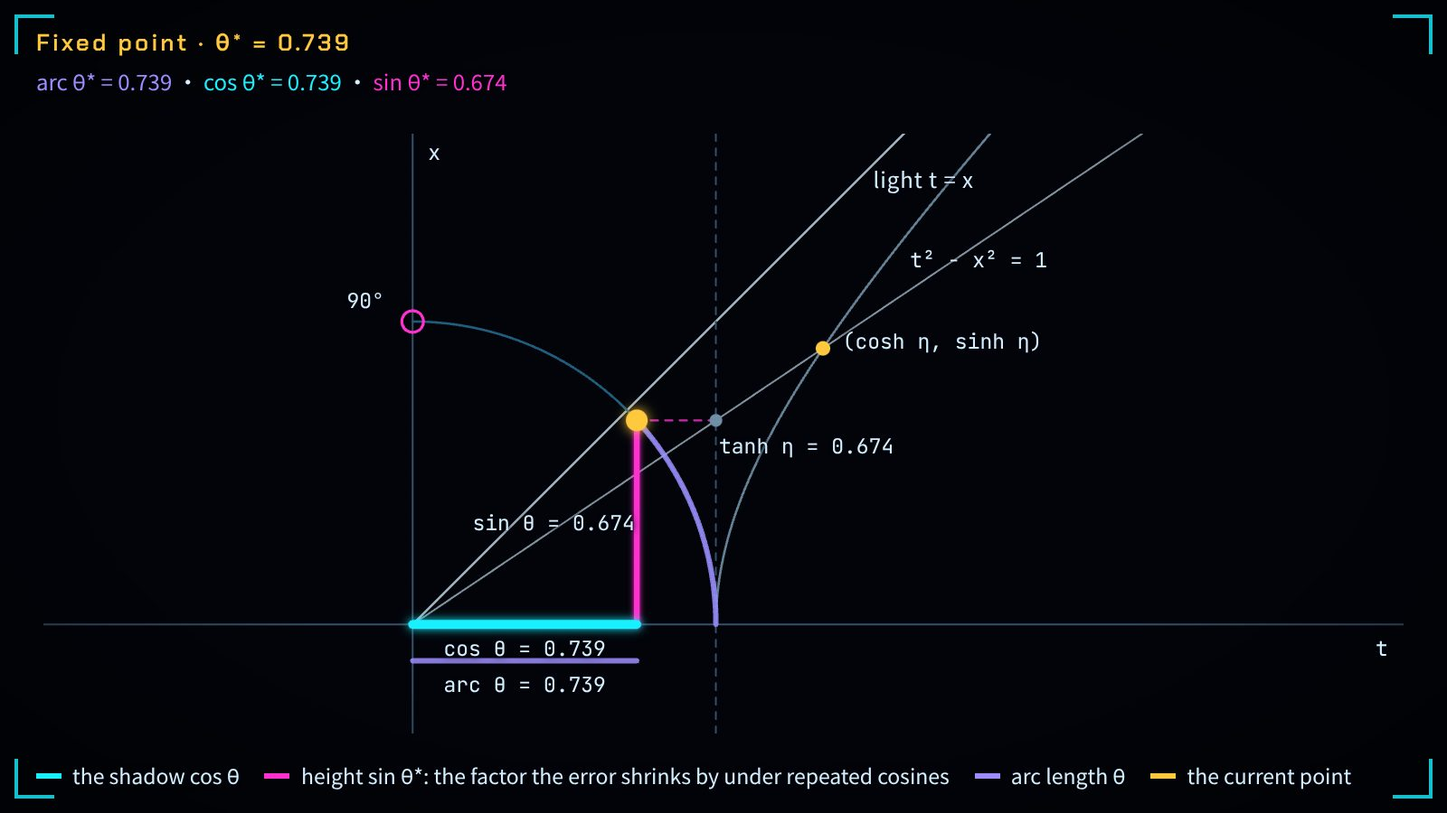
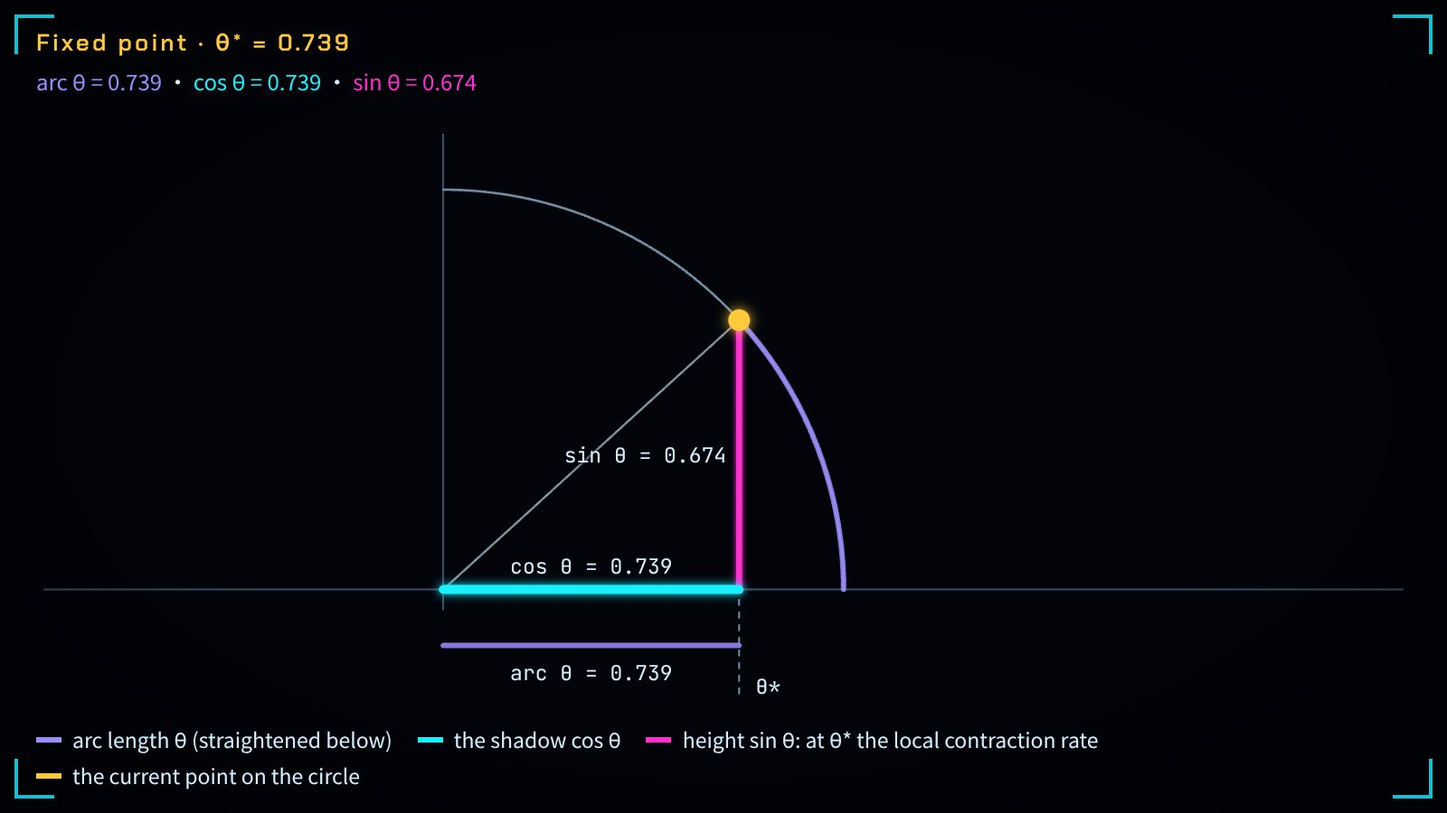
unified-field-slice: the fixed point gets its own stage, the unit circle alone; drop the gudermann card (its reading moves into photon) and the abelian card (one plane stays on the plane chips); checks read without the green mark

diff --git a/books/quantum-geometry/viz/unified-field-slice/main.js b/books/quantum-geometry/viz/unified-field-slice/main.js
@@ -92,17 +92,19 @@
   }
 
   /* ---------- state and scenes ---------- */
-  const S = { scene: 'clock', eta: LN2, tau: 0, lam: 0, eps: 60, plane: 'two', bond: 2 };
+  const S = { scene: 'clock', eta: LN2, theta: 0.3, tau: 0, lam: 0, eps: 60, plane: 'two', bond: 2 };
+  const TH_MAX = 1.5;
   const SCENES = {
     clock: { max: ETA_MAX, rate: 0.7, step: 0.1, get: () => S.eta, set: (v) => { S.eta = v; } },
+    fixed: { max: TH_MAX, rate: 0.3, step: 0.02, get: () => S.theta, set: (v) => { S.theta = v; } },
     loop: { max: 4, rate: 0.8, step: 1, get: () => S.tau, set: (v) => { S.tau = v; } },
     horizon: { max: 180, rate: 40, step: 15, get: () => S.lam, set: (v) => { S.lam = v; } }
   };
   const LEGEND = {
     clock: [['cy', '线 cos θ = 1/γ：固有时率', 'line cos θ = 1/γ: proper-time rate'], ['mg', '面积 sin θ = tanh η：速度 v/c', 'area sin θ = tanh η: speed v/c'], ['vi', '弧长 θ', 'arc length θ'], ['am', '当前的点', 'the current point']],
     loop: [['am', '箭头的尖端', 'tip of the arrow'], ['vi', '转轴', 'axis of a turn'], ['mg', '没合上的缺口', 'the gap left open']],
-    // at the fixed point the same stage is read without relativity: the magenta height is the contraction rate, not a speed
-    fixed: [['cy', '影子 cos θ', 'the shadow cos θ'], ['mg', '高 sin θ*：反复取余弦时误差的缩小倍数', 'height sin θ*: the factor the error shrinks by under repeated cosines'], ['vi', '弧长 θ', 'arc length θ'], ['am', '当前的点', 'the current point']],
+    // the fixed-point scene has only the unit circle: nothing on it is a speed
+    fixed: [['vi', '弧长 θ（下方拉直）', 'arc length θ (straightened below)'], ['cy', '影子 cos θ', 'the shadow cos θ'], ['mg', '高 sin θ：在 θ* 处是局部压缩率', 'height sin θ: at θ* the local contraction rate'], ['am', '圆上当前的点', 'the current point on the circle']],
     // with no horizon pushed in (λ = 0) only the polytope and its angle deficits are on the stage
     polytope: [['mg', '每个顶点的角亏 60°', 'the 60° angle deficit at each vertex'], ['dm', '正二十面体的边', 'edges of the icosahedron']],
     horizon: [['cy', '视界以内的边', 'edges inside the horizon'], ['mg', '割断的边 · 角亏', 'cut edges · angle deficits'], ['am', '视界 λ', 'the horizon λ'], ['dm', '视界以外', 'beyond the horizon']]
@@ -113,14 +115,53 @@
   const stage = kit.stage3($('stage'), {
     canvas: $('cv'), radius: TRV.thumbMode ? 0.42 : 0.36, cy: TRV.figure ? 0.53 : 0.55,
     onChange: () => paint(),
-    onPick: (ev) => { if (S.scene !== 'clock') return false; dragClock(ev); return true; },
-    onDrag: (ev) => dragClock(ev)
+    onPick: (ev) => { if (S.scene === 'clock') dragClock(ev); else if (S.scene === 'fixed') dragFixed(ev); else return false; return true; },
+    onDrag: (ev) => (S.scene === 'fixed' ? dragFixed(ev) : dragClock(ev))
   });
   function dragClock(ev) {
     if (!G) return;
     const b = $('cv').getBoundingClientRect(), x = G.invX(ev.clientX - b.left), y = G.invY(ev.clientY - b.top);
     const th = kit.clamp(Math.atan2(y, x), 0, gd(ETA_MAX));
     clock.pause(); cards.mark(null); clock.set(kit.clamp(gdInv(th), 0, ETA_MAX));
+  }
+
+  function dragFixed(ev) {
+    if (!G) return;
+    const b = $('cv').getBoundingClientRect(), x = G.invX(ev.clientX - b.left), y = G.invY(ev.clientY - b.top);
+    clock.pause(); cards.mark(null); clock.set(kit.clamp(Math.atan2(y, x), 0, TH_MAX));
+  }
+
+  /** The fixed point on its own: the unit circle, the arc θ, the shadow cos θ and the height sin θ. */
+  function drawFixed() {
+    const st = stage, cv = $('cv');
+    st.begin();
+    const w = cv.clientWidth, h = cv.clientHeight, thumb = TRV.thumbMode, lw = thumb ? 1.8 : 1;
+    const g = G = kit.plot(cv, { x: [-0.22, 1.62], y: [-0.36, 1.14], equal: true, pad: [24, 24, h < 420 ? 62 : 74, 44] });
+    const c = g.ctx, X = g.X, Y = g.Y, th = S.theta, co = Math.cos(th), si = Math.sin(th);
+    c.save(); c.beginPath(); c.rect(g.pl, g.pt, g.iw, g.ih); c.clip();
+    const seg = (a, b, color, s) => g.line([a, b], color, Object.assign({ width: 1.6 * lw }, s));
+    seg([g.x0, 0], [g.x1, 0], P.faint, { width: 1 }); seg([0, -0.05], [0, g.y1], P.faint, { width: 1 });
+    const circ = []; for (let i = 0; i <= 90; i++) { const a = Math.PI / 2 * i / 90; circ.push([Math.cos(a), Math.sin(a)]); }
+    g.line(circ, P.dim, { width: 1.3 * lw });
+    seg([0, 0], [co, si], P.ink, { width: 1.2 * lw, alpha: 0.6 });
+    // where the arc and the shadow agree
+    seg([THETA_STAR, -0.26], [THETA_STAR, 0.02], P.dim, { width: 1, dash: [3, 4] });
+    const arc = []; for (let i = 0; i <= 60; i++) { const a = th * i / 60; arc.push([Math.cos(a), Math.sin(a)]); }
+    g.line(arc, P.violet, { width: 3 * lw, alpha: 0.85 });
+    seg([0, -0.14], [th, -0.14], P.violet, { width: 3 * lw, alpha: 0.85 });
+    seg([co, 0], [co, si], P.magenta, { width: 3.2 * lw, glow: 6 });
+    seg([0, 0], [co, 0], P.cyan, { width: 5 * lw, glow: 10 });
+    g.dot(co, si, P.amber, 6 * lw, { glow: 14 });
+    c.restore();
+    if (!thumb) {
+      const at = (x, y, dx, dy) => [X(x) + (dx || 0), Y(y) + (dy || 0)];
+      const tag = (key, p, html, cls) => st.tag(key, p, html, cls, { screen: true });
+      tag('fcos', at(co / 2, 0, 0, -13), `cos θ = ${fix(co, 3)}`, 'num c-cy');
+      tag('farc', at(th / 2, -0.14, 0, 15), `${L('弧长', 'arc')} θ = ${fix(th, 3)}`, 'num c-vi');
+      tag('fsin', at(co, si / 2, -52, 0), `sin θ = ${fix(si, 3)}`, 'num c-mg');
+      tag('fstar', at(THETA_STAR, -0.24, 16, 0), 'θ*', 'num');
+    }
+    st.end();
   }
 
   function drawClock() {
@@ -253,6 +294,16 @@
       g.legend([[P.cyan, 'cos θ = sech η'], [P.magenta, 'sin θ = tanh η'], [P.violet, L('θ / 90°', 'θ / 90°'), 'dash']], { bottom: true, dy: -10 });
       $('plotTitle').innerHTML = L('<span>推得越快：时钟越慢，速度越贴近光</span>', '<span>The harder the push, the slower the clock and the closer to light</span>');
       $('plotMeta').textContent = `η = ${fix(S.eta, 3)} · θ = ${fix(k.theta / DEG, 2)}°`;
+    } else if (S.scene === 'fixed') {
+      const g = kit.plot(cv, { x: [0, TH_MAX], y: [0, 1.5], pad: [30, 10, 8, 22] });
+      g.axes({ yTicks: [0, 0.5, 1, 1.5], xTicks: [0, 0.5, 1, 1.5], xGrid: true });
+      const a = [], b = [];
+      for (let i = 0; i <= 150; i++) { const x = TH_MAX * i / 150; a.push([x, x]); b.push([x, Math.cos(x)]); }
+      g.line(a, P.violet, { width: 1.8 }); g.line(b, P.cyan, { width: 1.8 });
+      g.vline(S.theta, P.amber); g.dot(THETA_STAR, THETA_STAR, P.ink, 4);
+      g.legend([[P.violet, L('弧长 θ', 'arc θ')], [P.cyan, L('影子 cos θ', 'shadow cos θ')]], { right: true, bottom: true });
+      $('plotTitle').innerHTML = L('<span>弧长与影子只相交一次</span>', '<span>The arc and the shadow cross only once</span>');
+      $('plotMeta').textContent = `θ = ${fix(S.theta, 3)} · θ* = ${fix(THETA_STAR, 4)}`;
     } else if (S.scene === 'loop') {
       const g = kit.plot(cv, { x: [0, 90], y: [0, 130], pad: [34, 10, 8, 22] });
       g.axes({ yTicks: [0, 60, 120], xTicks: [0, 30, 60, 90], xGrid: true, yFmt: (v) => `${v}°`, xFmt: (v) => `${v}°` });
@@ -291,7 +342,7 @@
         : `θ = gd(η) = ${fix(k.theta / DEG, 2)}° · <span class="c-cy">cos θ = ${fix(k.cos, 3)}</span> · <span class="c-mg">sin θ = ${fix(k.sin, 3)}</span>`;
       if (fp) leg = 'fixed';
       keyName = L('线² + 面积²', 'line² + area²');
-      key = `<span class="c-cy">${fix(c2, 3)}</span> + <span class="c-mg">${fix(s2, 3)}</span> = ${fix(c2 + s2, 3)} <span class="okmark">✓</span>`;
+      key = `<span class="c-cy">${fix(c2, 3)}</span> + <span class="c-mg">${fix(s2, 3)}</span> = ${fix(c2 + s2, 3)} ✓`;
       rows = row('', '快度 η · 角 θ = gd(η)', 'rapidity η · angle θ = gd(η)', `${fix(S.eta, 4)} · ${fix(k.theta / DEG, 2)}°`)
         + row('c', '固有时率 dτ/dt = cos θ = sech η', 'proper-time rate dτ/dt = cos θ = sech η', `${fix(k.cos, 4)} = ${fix(k.sech, 4)}`)
         + row('m', '速度 v/c = sin θ = tanh η', 'speed v/c = sin θ = tanh η', `${fix(k.sin, 4)} = ${fix(k.tanh, 4)}`)
@@ -302,6 +353,21 @@
           : L(`同一个角 θ：青色的线是时钟走得多快，品红的高是跑得多快，两者的平方加起来总是 1。`, 'One angle θ: the cyan line is how fast the clock runs, the magenta height how fast the body moves, and their squares always add up to 1.');
       aside = 'sin θ = tanh η';
       pill = fp ? ['sin θ*', fix(k.sin, 3)] : ['v/c', fix(k.sin, 3)];
+    } else if (sc === 'fixed') {
+      const th = S.theta, co = Math.cos(th), si = Math.sin(th), at = Math.abs(th - THETA_STAR) < 5e-4;
+      big = at ? L(`不动点 · θ* = ${fix(th, 3)}`, `Fixed point · θ* = ${fix(th, 3)}`) : L(`不动点 · θ = ${fix(th, 3)}`, `Fixed point · θ = ${fix(th, 3)}`);
+      sub = `<span class="c-vi">${L('弧长', 'arc')} θ = ${fix(th, 3)}</span> · <span class="c-cy">cos θ = ${fix(co, 3)}</span> · <span class="c-mg">sin θ = ${fix(si, 3)}</span>`;
+      keyName = L('影子 − 弧长 cos θ − θ', 'shadow − arc cos θ − θ');
+      key = sgn(co - th, 4);
+      rows = row('', '角 θ（弧度 · 度）', 'angle θ (radians · degrees)', `${fix(th, 4)} · ${fix(th / DEG, 2)}°`)
+        + row('c', '影子 cos θ', 'shadow cos θ', fix(co, 4))
+        + row('m', '高 sin θ', 'height sin θ', fix(si, 4))
+        + row('', 'cos θ = θ 的根 θ*', 'root θ* of cos θ = θ', fix(THETA_STAR, 6));
+      note = at ? L(`θ = θ* ≈ ${fix(THETA_STAR, 6)}：紫色的弧长与青色的影子一样长，cos θ = θ。品红的高 sin θ* = ${fix(Math.sin(THETA_STAR), 4)} 是反复取余弦时误差每步缩小的倍数。`, `θ = θ* ≈ ${fix(THETA_STAR, 6)}: the violet arc and the cyan shadow have the same length, cos θ = θ. The magenta height sin θ* = ${fix(Math.sin(THETA_STAR), 4)} is the factor by which repeated cosines shrink the error at each step.`)
+        : th < THETA_STAR ? L('影子比弧长长：cos θ − θ > 0。把点往上推，弧长变长、影子变短。', 'The shadow is longer than the arc: cos θ − θ > 0. Push the point up: the arc grows and the shadow shrinks.')
+          : L('弧长已经比影子长：cos θ − θ < 0。两者只在 θ* 处相等一次。', 'The arc is now longer than the shadow: cos θ − θ < 0. The two agree only once, at θ*.');
+      aside = 'cos θ = θ';
+      pill = ['θ', fix(th, 3)];
     } else if (sc === 'loop') {
       const now = loopAt(S.tau), R = loopU(), done = S.tau >= 4 - 1e-9, b = R.biv;
       const leg = Math.min(3, now.k);
@@ -345,12 +411,12 @@
     $('hudBig').innerHTML = big; $('hudSub').innerHTML = sub;
     $('ro').innerHTML = `<div class="key"><dt>${keyName}</dt><dd><b>${key}</b></dd></div>${rows}`;
     $('roNote').textContent = note; $('roAside').textContent = aside;
-    $('pillScene').querySelector('strong').textContent = { clock: L('时钟', 'CLOCK'), loop: L('回路', 'LOOP'), horizon: L('视界', 'HORIZON') }[sc];
+    $('pillScene').querySelector('strong').textContent = { clock: L('时钟', 'CLOCK'), fixed: L('不动点', 'FIXED'), loop: L('回路', 'LOOP'), horizon: L('视界', 'HORIZON') }[sc];
     $('pillKeyName').textContent = pill[0]; $('pillKey').querySelector('strong').textContent = pill[1];
     $('legend').innerHTML = LEGEND[leg].map(([cl, zh, en]) => `<span><i class="sw ${cl}"></i>${L(zh, en)}</span>`).join('');
   }
 
-  function drawStage() { if (S.scene === 'clock') drawClock(); else if (S.scene === 'loop') drawLoop(); else drawHorizon(); }
+  function drawStage() { if (S.scene === 'clock') drawClock(); else if (S.scene === 'fixed') drawFixed(); else if (S.scene === 'loop') drawLoop(); else drawHorizon(); }
   const paint = kit.painter(() => { drawText(); drawStage(); drawPlot(); }, [$('stage'), $('plot')]);
 
   /* ---------- the rail ---------- */
@@ -359,6 +425,7 @@
     range: $('now'), play: $('play'), label: $('tau'), speeds: $('speedChips'), max: ETA_MAX, rate: 0.7, step: 0.1, t: S.eta,
     // the label is first drawn while the clock is being built: it reads t, max and S only
     format: (t, max) => S.scene === 'clock' ? `η = ${fix(t, 3)} <small>/ ${fix(max, 0)}</small>`
+      : S.scene === 'fixed' ? `θ = ${fix(t, 3)} <small>/ ${fix(max, 1)}</small>`
       : S.scene === 'loop' ? `${L('步', 'step')} ${fix(t, 2)} <small>/ 4</small>` : `λ = ${fix(t, 1)}° <small>/ 180°</small>`,
     onChange: (t, c) => {
       if (stopAt != null && c.playing && t >= stopAt - 1e-9) { const s = stopAt; stopAt = null; c.pause(); c.set(s); return; }
@@ -388,25 +455,21 @@
   const planeChips = kit.chips($('planeChips'), 'plane', (v) => { leave(); S.plane = v; paint(); });
   const bondChips = kit.chips($('bondChips'), 'bond', (v) => { leave(); S.bond = +v; paint(); });
   $('rew').addEventListener('click', () => { clock.pause(); clock.set(0); });
-  kit.keys({ 1: () => { leave(); setScene('clock'); }, 2: () => { leave(); setScene('loop'); }, 3: () => { leave(); setScene('horizon'); } });
+  kit.keys({ 1: () => { leave(); setScene('clock'); }, 2: () => { leave(); setScene('loop'); }, 3: () => { leave(); setScene('horizon'); }, 4: () => { leave(); setScene('fixed'); } });
 
   /* ---------- experiment cards: scene, where the rail starts and stops, the still, and what else the card sets ---------- */
   const PRESETS = {
     polytope: { scene: 'horizon', from: 0, still: 0 },
-    fixedpoint: { scene: 'clock', from: 0, to: ETA_STAR, still: ETA_STAR },
-    gudermann: { scene: 'clock', from: 0, to: LN2, still: LN2 },
+    fixedpoint: { scene: 'fixed', from: 0, to: THETA_STAR, still: THETA_STAR },
     photon: { scene: 'clock', from: LN2, to: ETA_MAX, still: ETA_MAX },
-    abelian: { scene: 'loop', plane: 'one', eps: 60, from: 0, to: 4, still: 4 },
     plaquette: { scene: 'loop', plane: 'two', eps: 60, from: 0, to: 4, still: 4 },
     horizon: { scene: 'horizon', bond: 2, from: 0, to: 90, still: 90 }
   };
   const NOTES = {
     polytope: ['球面上内接一个正二十面体，北极的顶点是观察者。每个顶点挤着 5 个等边三角形，角加起来只有 300°：品红的小扇形就是摊平后缺的那 60°。12 个顶点一共缺 720° = 4π。', 'A regular icosahedron sits in the sphere, with the observer at the vertex on the north pole. Five equilateral triangles meet at each vertex and their angles add to only 300°: the small magenta wedge is the 60° that is missing once they are laid flat. The 12 vertices miss 720° = 4π in all.'],
     fixedpoint: ['圆上的点停在 θ* ≈ 0.739：紫色的弧长 θ 与青色的影子 cos θ 一样长，这是 cos θ = θ 唯一的实根。品红的高 sin θ* ≈ 0.674，是反复取余弦时误差每步缩小的倍数。', 'The point on the circle stops at θ* ≈ 0.739: the violet arc length θ is as long as the cyan shadow cos θ, the only real root of cos θ = θ. The magenta height sin θ* ≈ 0.674 is the factor by which the error shrinks at each step of taking cosines again and again.'],
-    gudermann: ['快度 η 从 0 推到 ln 2：双曲线上的琥珀色事件走到 (5/4, 3/4)，世界线在 t = 1 处的高度 tanh η = 0.6，平移到圆上，落点 θ = 36.87°。青色的线 cos θ = 0.8 = 1/γ 是时钟的速率，品红的高 sin θ = 0.6 是速度 v/c：0.8² + 0.6² = 1。', 'Push the rapidity η from 0 to ln 2: the amber event on the hyperbola reaches (5/4, 3/4), the worldline crosses t = 1 at height tanh η = 0.6, and carried across to the circle that height lands at θ = 36.87°. The cyan line cos θ = 0.8 = 1/γ is the rate of the clock and the magenta height sin θ = 0.6 is the speed v/c: 0.8² + 0.6² = 1.'],
-    photon: ['η 从 ln 2 一直推到 4：世界线贴向白色的光线，圆上的点贴向 θ = 90°。青色的线缩到 0.04，时钟几乎停摆；品红的高逼近 1，却碰不到：η 有限时 θ 总小于 90°。', 'Push η from ln 2 all the way to 4: the worldline hugs the white light line and the point on the circle creeps up to θ = 90°. The cyan line shrinks to 0.04 and the clock all but stops; the magenta height nears 1 without touching it: for finite η, θ stays below 90°.'],
-    abelian: ['两个旋子都绕 e₃ 转 60°，都在 e₁e₂ 这一个平面里：琥珀色的箭头沿同一条纬线退两步、再进两步，回到起点。同一平面里的转动次序可以交换，U = R₁R₂R₁⁻¹R₂⁻¹ = 1。', 'Both rotors turn by 60° about e₃, both in the one plane e₁e₂: the amber arrow goes two steps back and two steps forward along one parallel and ends where it started. Turns in one plane can be taken in either order, so U = R₁R₂R₁⁻¹R₂⁻¹ = 1.'],
-    plaquette: ['换成两个平面：R₁ 绕 e₁、R₂ 绕 e₂，各转 60°，依次施加 R₂⁻¹、R₁⁻¹、R₂、R₁。四步走完箭头没回到起点：品红的弧是缺口，紫色的线是余下那个转动的轴。U = 0.875 − (0.217e₂₃ − 0.217e₃₁ + 0.375e₁₂)，余下转角 57.9°。', 'Now two planes: R₁ about e₁ and R₂ about e₂, 60° each, applied as R₂⁻¹, R₁⁻¹, R₂, R₁. After four steps the arrow is not home: the magenta arc is the gap and the violet line is the axis of the turn left over. U = 0.875 − (0.217e₂₃ − 0.217e₃₁ + 0.375e₁₂), a left-over turn of 57.9°.'],
+    photon: ['η 从 ln 2 一直推到 4：世界线贴向白色的光线，圆上的点贴向 θ = 90°。青色的线缩到 0.04，时钟几乎停摆；品红的高逼近 1，却碰不到：η 有限时 θ 总小于 90°。出发的 η = ln 2 处，青色的线是 0.8 = 1/γ，品红的高是 0.6，0.8² + 0.6² = 1。', 'Push η from ln 2 all the way to 4: the worldline hugs the white light line and the point on the circle creeps up to θ = 90°. The cyan line shrinks to 0.04 and the clock all but stops; the magenta height nears 1 without touching it: for finite η, θ stays below 90°. At the start, η = ln 2, the cyan line is 0.8 = 1/γ and the magenta height 0.6, with 0.8² + 0.6² = 1.'],
+    plaquette: ['换成两个平面：R₁ 绕 e₁、R₂ 绕 e₂，各转 60°，依次施加 R₂⁻¹、R₁⁻¹、R₂、R₁。四步走完箭头没回到起点：品红的弧是缺口，紫色的线是余下那个转动的轴。U = 0.875 − (0.217e₂₃ − 0.217e₃₁ + 0.375e₁₂)，余下转角 57.9°。把两根转轴都换成同一根（同一个平面），四步互相抵消，U = 1。', 'Now two planes: R₁ about e₁ and R₂ about e₂, 60° each, applied as R₂⁻¹, R₁⁻¹, R₂, R₁. After four steps the arrow is not home: the magenta arc is the gap and the violet line is the axis of the turn left over. U = 0.875 − (0.217e₂₃ − 0.217e₃₁ + 0.375e₁₂), a left-over turn of 57.9°. Put both turns about one axis (one plane) and the four steps cancel: U = 1.'],
     horizon: ['视界从北极往下推到 λ = 90°：以内是北极和第一圈 5 个顶点，青色的边留在里面，品红的 10 条边被割断。每条边携带 D 维指标时，跨视界的施密特秩至多 D¹⁰。', 'The horizon is pushed down from the north pole to λ = 90°: inside it are the pole and the first ring of 5 vertices, the cyan edges stay inside and the 10 magenta edges are cut. If every edge carries a D-dimensional index, the Schmidt rank across the horizon is at most D¹⁰.']
   };
   let booting = true;
@@ -437,6 +500,7 @@
       const k = clockAt(S.eta), now = loopAt(S.tau), R = loopU(), H = horizonAt(S.lam);
       return {
         scene: S.scene, t: clock.t, max: clock.max, playing: clock.playing, preset: cards.current, eps: S.eps, plane: S.plane, bond: S.bond,
+        fixed: { theta: S.theta, cos: Math.cos(S.theta), sin: Math.sin(S.theta), thetaStar: THETA_STAR },
         clock: { eta: S.eta, theta: k.theta, cos: k.cos, sin: k.sin, cosh: k.cosh, sinh: k.sinh, sech: k.sech, tanh: k.tanh, gamma: k.gamma, thetaStar: THETA_STAR, etaStar: ETA_STAR },
         loop: { tau: S.tau, p0: P0.slice(), r: now.r, q: now.q, U: R.U, phi: R.phi, axis: R.axis, legs: legs().map(([n, a]) => [n.slice(), a]) },
         horizon: { lam: S.lam, cut: H.cut, nA: H.nA, inside: H.inside, bound: H.bound, inA: H.inA.slice(), V: ICO.V.map((v) => v.slice()), E: ICO.E.map((e) => e.slice()), F: ICO.F.length, deficit: ICO.deficit.slice() },
@@ -449,7 +513,7 @@
     camera: () => Object.assign({}, stage.cam)
   };
   window.TRV_THUMB = () => { applyPreset('plaquette'); cards.mark('plaquette'); clock.pause(); clock.set(4); stage.cam.yaw = -0.5; stage.cam.pitch = 0.32; paint.now(); };
-  cards.pick(cards.initial('gudermann'));
+  cards.pick(cards.initial('photon'));
   booting = false;
   paint();
 })();

diff --git a/books/quantum-geometry/viz/unified-field-slice/index.html b/books/quantum-geometry/viz/unified-field-slice/index.html
@@ -38,9 +38,7 @@
       <div class="presets cards" id="presets">
         <button class="preset" data-preset="polytope" aria-pressed="false"><span class="code">ICOSA 720°</span><span class="cn zh">二十面体：每个顶点缺 60°，一共缺 720°</span><span class="cn en">Icosahedron: 60° missing at each vertex, 720° in all</span></button>
         <button class="preset" data-preset="fixedpoint" aria-pressed="false"><span class="code">FIXED POINT</span><span class="cn zh">弧长等于影子的那一个角</span><span class="cn en">The one angle whose arc equals its shadow</span></button>
-        <button class="preset" data-preset="gudermann" aria-pressed="false"><span class="code">GUDERMANN</span><span class="cn zh">快度 ln 2：时钟 0.8，速度 0.6</span><span class="cn en">Rapidity ln 2: clock 0.8, speed 0.6</span></button>
         <button class="preset" data-preset="photon" aria-pressed="false"><span class="code">TOWARDS LIGHT</span><span class="cn zh">推向光速：时钟停摆，点贴到 90°</span><span class="cn en">Towards light: the clock stops, the point reaches 90°</span></button>
-        <button class="preset" data-preset="abelian" aria-pressed="false"><span class="code">ONE PLANE</span><span class="cn zh">同一个平面里来回转：回到原处</span><span class="cn en">Back and forth in one plane: home again</span></button>
         <button class="preset" data-preset="plaquette" aria-pressed="false"><span class="code">R₁R₂R₁⁻¹R₂⁻¹</span><span class="cn zh">两个平面里来回转：剩下一个转动</span><span class="cn en">Back and forth in two planes: a turn is left over</span></button>
         <button class="preset" data-preset="horizon" aria-pressed="false"><span class="code">|∂A| = 10</span><span class="cn zh">视界推到 90°：割断 10 条边</span><span class="cn en">The horizon at 90°: 10 edges cut</span></button>
       </div>
@@ -50,6 +48,11 @@
     <section class="panel sec" data-scenes="clock">
       <h2><span class="zh">快度</span><span class="en">Rapidity</span><span class="aside">θ = gd(η)</span></h2>
       <p class="note"><span class="zh">时间轴推动快度 η；也可以直接拖动圆上琥珀色的点，页面按 η = arsinh(tan θ) 反算快度。</span><span class="en">The rail pushes the rapidity η; you can also drag the amber point on the circle, and the page works back η = arsinh(tan θ).</span></p>
+    </section>
+
+    <section class="panel sec" data-scenes="fixed" hidden>
+      <h2><span class="zh">不动点</span><span class="en">Fixed point</span><span class="aside">cos θ = θ</span></h2>
+      <p class="note"><span class="zh">时间轴推动圆上的角 θ；也可以直接拖动圆上琥珀色的点。紫色的弧长与青色的影子只在 θ* 处一样长。</span><span class="en">The rail pushes the angle θ on the circle; you can also drag the amber point. The violet arc and the cyan shadow have the same length only at θ*.</span></p>
     </section>
 
     <section class="panel sec" data-scenes="loop" hidden>
@@ -81,6 +84,7 @@
       <div class="hud-tl"><span class="big" id="hudBig"></span><span class="sub" id="hudSub"></span></div>
       <div class="hud-tr chips" id="sceneChips" role="group" aria-label="场景" data-aria-en="Scene">
         <button class="chip" data-scene="clock" aria-pressed="true"><span class="zh">时钟</span><span class="en">Clock</span></button>
+        <button class="chip" data-scene="fixed" aria-pressed="false"><span class="zh">不动点</span><span class="en">Fixed point</span></button>
         <button class="chip" data-scene="loop" aria-pressed="false"><span class="zh">回路</span><span class="en">Loop</span></button>
         <button class="chip" data-scene="horizon" aria-pressed="false"><span class="zh">视界</span><span class="en">Horizon</span></button>
       </div>
@@ -114,7 +118,7 @@
       <h2><span class="zh">依据</span><span class="en">Evidence</span><span class="aside">trureturing</span></h2>
       <div class="lean argued"><span class="ok">ARGUED</span><span><span class="zh">文献结果，未在本书形式化：θ = gd(η) 时 sin θ = tanh η、cos θ = sech η，故 cos²θ + sin²θ = 1 与 cosh²η − sinh²η = 1 是同一条恒等式；狭义相对论把 tanh η 读作 v/c、把 sech η 读作 dτ/dt = 1/γ。凸多面体顶点角亏之和为 4π = 720°。两个平面上转动的换位子在小回路极限下给出 ε² 量级的曲率二向量（杨—米尔斯 F = [D, D]）。若网络每条边携带 D 维指标，跨一道割的施密特秩不超过 D 的割边数次方。既有结果的应用（第 24 章的余弦端点定理与第 33 章例 ex-ch33-mutual-cosine-monotonic-lock）：cos θ = θ 的唯一实根是 θ*，sin θ* = √(1 − θ*²)，θ* + arcsin θ* = π/2；θ* ≈ 0.739085 的小数是数值。</span><span class="en">Literature results, not formalized in this book: with θ = gd(η), sin θ = tanh η and cos θ = sech η, so cos²θ + sin²θ = 1 and cosh²η − sinh²η = 1 are one identity; special relativity reads tanh η as v/c and sech η as dτ/dt = 1/γ. The angle deficits at the vertices of a convex polyhedron add up to 4π = 720°. For small loops the commutator of turns in two planes gives a curvature bivector of order ε² (Yang–Mills F = [D, D]). If each edge of a network carries a D-dimensional index, the Schmidt rank across a cut is at most D to the number of cut edges. Application of existing results (the cosine endpoint theorem of chapter 24 and Example ex-ch33-mutual-cosine-monotonic-lock of chapter 33): the only real root of cos θ = θ is θ*, with sin θ* = √(1 − θ*²) and θ* + arcsin θ* = π/2; the decimals θ* ≈ 0.739085 are numerical.</span></span></div>
       <div class="lean model"><span class="ok">MODEL</span><span><span class="zh">本书第三十二章的诠释：把固有时率读作内积（青色的线）、把速度读作外积（品红的面积）、把 90° 读作正交视界，把两个平面转动的回路余项读作相互作用的几何源，把观察者 90° 处的视界读作切开关系网络的一道割。这是统一场纲领的示意，不是由这些数学事实推出的物理结论。</span><span class="en">The reading of Chapter 32 of this book: the proper-time rate as an inner product (the cyan line), the speed as an outer product (the magenta area), 90° as the orthogonal horizon, the loop remainder of turns in two planes as the geometric source of an interaction, and the observer's horizon at 90° as a cut through the network of relations. It is a picture of the unified-field programme, not a physical conclusion derived from these mathematical facts.</span></span></div>
-      <div class="lean num"><span class="ok">NUM</span><span><span class="zh">页面上的数都按双精度实时算出：gd(η)、旋子的四元数乘积、二十面体的顶点角与割边数。这是数值演示，不是证明。</span><span class="en">Every number on the page is computed live in double precision: gd(η), the quaternion products of the rotors, the vertex angles and cut edges of the icosahedron. A numerical illustration, not a proof.</span></span></div>
+      <div class="lean num"><span class="ok">NUM</span><span><span class="zh">页面上的数都按双精度实时算出：gd(η)、cos θ = θ 的根 θ*（牛顿迭代）、旋子的四元数乘积、二十面体的顶点角与割边数。这是数值演示，不是证明。</span><span class="en">Every number on the page is computed live in double precision: gd(η), the root θ* of cos θ = θ (by Newton’s method), the quaternion products of the rotors, the vertex angles and cut edges of the icosahedron. A numerical illustration, not a proof.</span></span></div>
       <button class="chip" id="infoBtn"><span class="zh">理论接口 DATA SHARD</span><span class="en">DATA SHARD · theory</span></button>
     </section>
   </aside>
@@ -132,7 +136,7 @@
       <input type="range" id="now" min="0" max="1" step="any" value="0" aria-label="时间轴：快度 η、回路走到第几步，或视界的极角 λ" data-aria-en="Rail: the rapidity η, how far round the loop, or the polar angle λ of the horizon">
     </div>
     <div class="keys">
-      <kbd>Space</kbd> <span class="zh">播放</span><span class="en">play</span> · <kbd>←</kbd><kbd>→</kbd> <span class="zh">逐步</span><span class="en">step</span> · <kbd>1</kbd>–<kbd>3</kbd> <span class="zh">场景</span><span class="en">scenes</span> · <span class="zh">拖动球面转动视角</span><span class="en">drag the sphere to turn it</span>
+      <kbd>Space</kbd> <span class="zh">播放</span><span class="en">play</span> · <kbd>←</kbd><kbd>→</kbd> <span class="zh">逐步</span><span class="en">step</span> · <kbd>1</kbd>–<kbd>4</kbd> <span class="zh">场景</span><span class="en">scenes</span> · <span class="zh">拖动球面转动视角</span><span class="en">drag the sphere to turn it</span>
     </div>
   </footer>
 </div>
